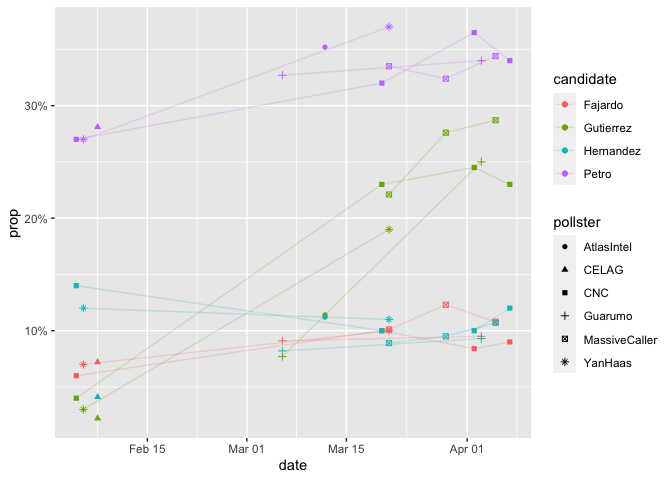
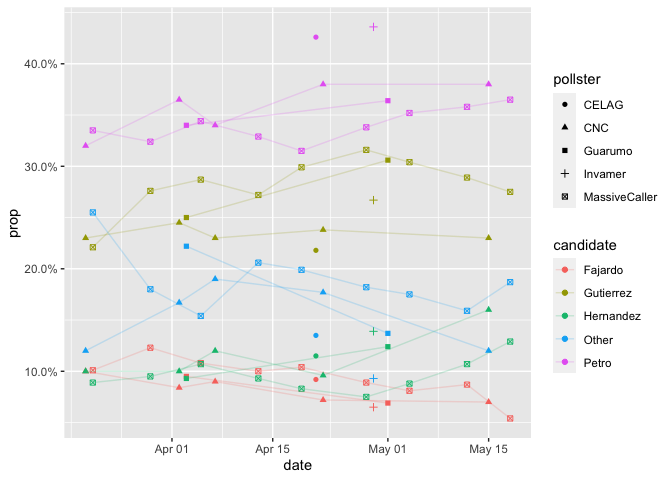
updated EDA before elections

diff --git a/vignettes/eda.md b/vignettes/eda.md
@@ -1,41 +1,30 @@
 ---
-title: "R Notebook"
+title: "EDA of Colombia's presidential election polls and results"
 output:
   html_document:
     keep_md: true
+    code_folding: hide
 ---
 
-This is an [R Markdown](http://rmarkdown.rstudio.com) Notebook. When you execute code within the notebook, the results appear beneath the code.
 
-Try executing this chunk by clicking the *Run* button within the chunk or by placing your cursor inside it and pressing *Cmd+Shift+Enter*.
-
+# Read and tidy data
 
 ```r
 library(readr)
 library(dplyr)
-```
-
-```
-## 
-## Attaching package: 'dplyr'
-```
-
-```
-## The following objects are masked from 'package:stats':
-## 
-##     filter, lag
-```
-
-```
-## The following objects are masked from 'package:base':
-## 
-##     intersect, setdiff, setequal, union
-```
-
-```r
 library(tidyr)
+
+start_date <- as.Date("2022-03-13")
+candidates <- c(
+    "Petro",
+    "Gutierrez",
+    "Hernandez",
+    "Fajardo"
+)
+
 prefix <- "https://raw.githubusercontent.com/nelsonamayad/Elecciones-presidenciales-2022/main/"
 path <- "Encuestas%202022/encuestas_2022.csv"
+
 df <- paste0(prefix, path) %>%
     readr::read_csv(
         col_types = list(
@@ -50,7 +39,6 @@ df <- paste0(prefix, path) %>%
             .default = col_double()
         )
     ) %>%
-    mutate(se = margen_error / 1.96) %>%
     select(
         -n,
         -tasa_respuesta,
@@ -62,32 +50,26 @@ df <- paste0(prefix, path) %>%
     rename(
         pollster = encuestadora,
         date= fecha,
-        n = muestra,
+        sample_size = muestra,
         other = otros,
         other_nsnr=ns_nr,
-        sampling_type = muestreo,
-        polling_type = tipo,
+        sample_type = muestreo,
+        poll_mode = tipo,
         num_cities = municipios
     ) %>%
+    filter(date > start_date) %>%
     tidyr::pivot_longer(
         !c(
             pollster,
             date,
-            n,
+            sample_size,
             link,
-            sampling_type,
-            polling_type,
-            num_cities,
-            se            
+            sample_type,
+            poll_mode,
+            num_cities   
         ),
         names_to = "candidate",
         values_to = "prop"
-    ) %>%
-    relocate(
-        candidate,
-        prop,
-        se,
-        .after = date
     ) %>%
     mutate(
         candidate = stringr::str_to_title(
@@ -95,37 +77,87 @@ df <- paste0(prefix, path) %>%
                 candidate, "[^_]+$"
             )
         ),
-        prop = prop / 100,
-        se = se / 100
+        candidate = ifelse(
+            candidate %in% candidates,
+            candidate,
+            "Other"
+        ),
+        prop = prop / 100
+    ) %>%
+    group_by(
+        pollster,
+        date,
+        candidate,
+        sample_size,
+        link,
+        sample_type,
+        poll_mode,
+        num_cities
+    ) %>%
+    summarise(
+        prop=sum(prop, na.rm=TRUE),
+        .groups="drop"
+    ) %>%
+    mutate(
+        vote = round(prop * sample_size)
+    ) %>%
+    relocate(
+        poll_mode,
+        candidate,
+        vote,
+        prop,
+        .after = date
+    ) %>%
+    arrange(
+        date, pollster, candidate
     )
+
+knitr::kable(head(select(df, -link), 20))
 ```
 
-Add a new chunk by clicking the *Insert Chunk* button on the toolbar or by pressing *Cmd+Option+I*.
 
-When you save the notebook, an HTML file containing the code and output will be saved alongside it (click the *Preview* button or press *Cmd+Shift+K* to preview the HTML file).
 
-The preview shows you a rendered HTML copy of the contents of the editor. Consequently, unlike *Knit*, *Preview* does not run any R code chunks. Instead, the output of the chunk when it was last run in the editor is displayed.
+|pollster      |date       |poll_mode               |candidate | vote|  prop| sample_size|sample_type              | num_cities|
+|:-------------|:----------|:-----------------------|:---------|----:|-----:|-----------:|:------------------------|----------:|
+|CNC           |2022-03-20 |telefonico y presencial |Fajardo   |  214| 0.100|        2143|Estratificado municipios |         43|
+|CNC           |2022-03-20 |telefonico y presencial |Gutierrez |  493| 0.230|        2143|Estratificado municipios |         43|
+|CNC           |2022-03-20 |telefonico y presencial |Hernandez |  214| 0.100|        2143|Estratificado municipios |         43|
+|CNC           |2022-03-20 |telefonico y presencial |Other     |  257| 0.120|        2143|Estratificado municipios |         43|
+|CNC           |2022-03-20 |telefonico y presencial |Petro     |  686| 0.320|        2143|Estratificado municipios |         43|
+|MassiveCaller |2022-03-21 |telefonica              |Fajardo   |  101| 0.101|        1000|NA                       |         NA|
+|MassiveCaller |2022-03-21 |telefonica              |Gutierrez |  221| 0.221|        1000|NA                       |         NA|
+|MassiveCaller |2022-03-21 |telefonica              |Hernandez |   89| 0.089|        1000|NA                       |         NA|
+|MassiveCaller |2022-03-21 |telefonica              |Other     |  255| 0.255|        1000|NA                       |         NA|
+|MassiveCaller |2022-03-21 |telefonica              |Petro     |  335| 0.335|        1000|NA                       |         NA|
+|YanHaas       |2022-03-21 |presencial              |Fajardo   |  124| 0.100|        1236|Estratificado municipios |         60|
+|YanHaas       |2022-03-21 |presencial              |Gutierrez |  235| 0.190|        1236|Estratificado municipios |         60|
+|YanHaas       |2022-03-21 |presencial              |Hernandez |  136| 0.110|        1236|Estratificado municipios |         60|
+|YanHaas       |2022-03-21 |presencial              |Other     |  290| 0.235|        1236|Estratificado municipios |         60|
+|YanHaas       |2022-03-21 |presencial              |Petro     |  457| 0.370|        1236|Estratificado municipios |         60|
+|MassiveCaller |2022-03-29 |telefonica              |Fajardo   |  123| 0.123|        1000|NA                       |         NA|
+|MassiveCaller |2022-03-29 |telefonica              |Gutierrez |  276| 0.276|        1000|NA                       |         NA|
+|MassiveCaller |2022-03-29 |telefonica              |Hernandez |   95| 0.095|        1000|NA                       |         NA|
+|MassiveCaller |2022-03-29 |telefonica              |Other     |  180| 0.180|        1000|NA                       |         NA|
+|MassiveCaller |2022-03-29 |telefonica              |Petro     |  324| 0.324|        1000|NA                       |         NA|
 
+
+# Visualize raw data
 
 ```r
 library(ggplot2)
 library(scales)
-```
 
-```
-## 
-## Attaching package: 'scales'
-```
+pollsters <- c(
+    "CNC",
+    "CELAG",
+    "Guarumo",
+    "Invamer",
+    "MassiveCaller",
+    "YanHass"
+)
 
-```
-## The following object is masked from 'package:readr':
-## 
-##     col_factor
-```
-
-```r
 df %>%
-    filter(candidate %in% c("Fajardo", "Gutierrez", "Petro", "Hernandez")) %>%
+    filter(pollster %in% pollsters) %>%
     ggplot(aes(date, prop, color=candidate, shape=pollster)) +
     geom_point(alpha=1) +
     geom_line(alpha=0.2) +
